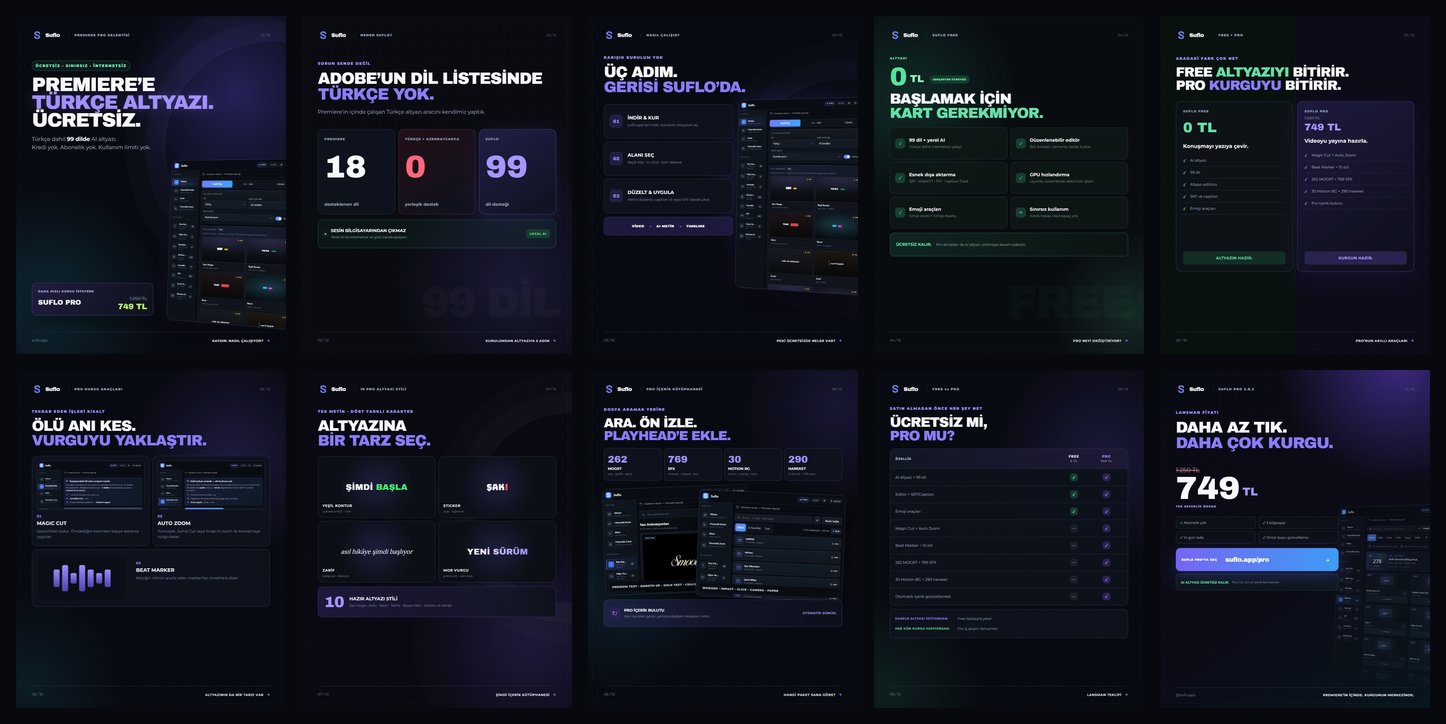
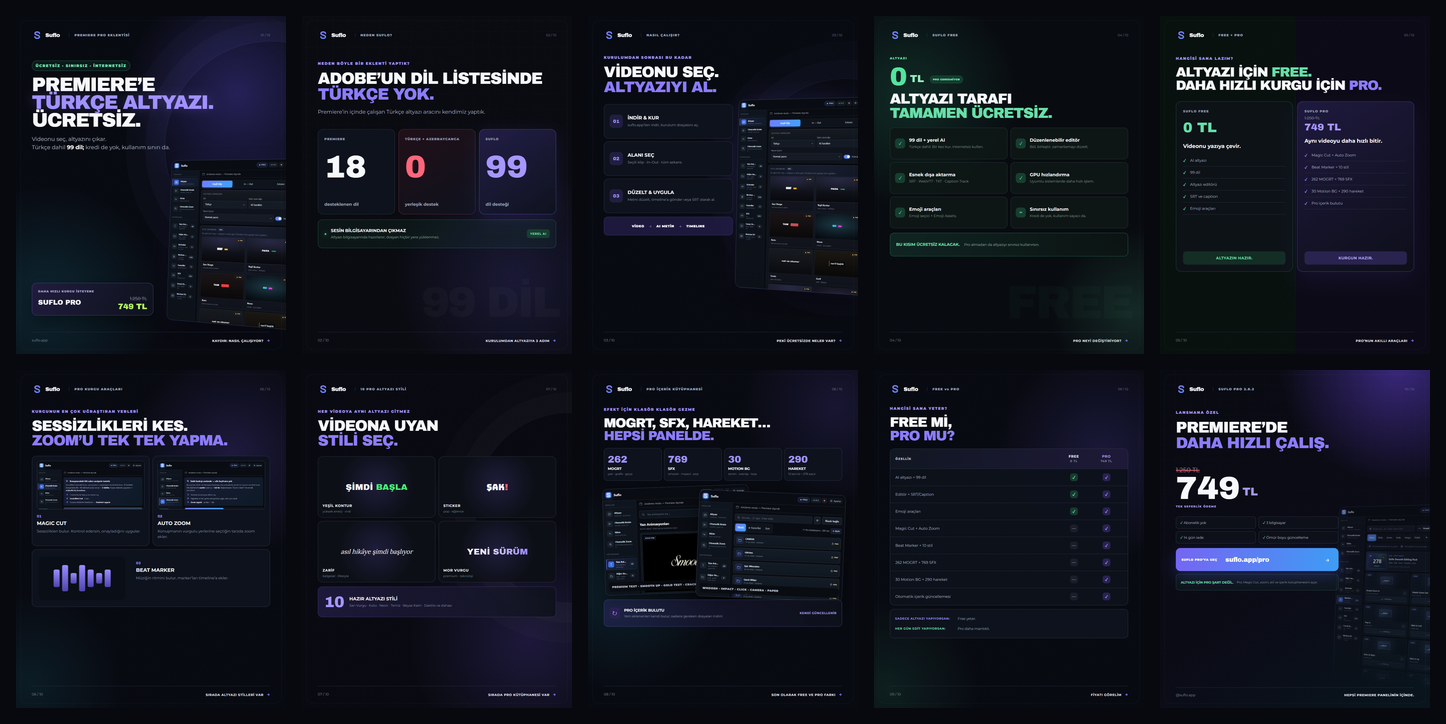
Make Suflo carousel copy sound natural

diff --git a/brand/campaign-2.8.2-FINAL/carousel.html b/brand/campaign-2.8.2-FINAL/carousel.html
@@ -14,7 +14,7 @@
       <div class="hero-copy">
         <span class="eyebrow free-label">ÜCRETSİZ · SINIRSIZ · İNTERNETSİZ</span>
         <h1>PREMIERE’E<br><em>TÜRKÇE ALTYAZI.</em><br>ÜCRETSİZ.</h1>
-        <p>Türkçe dahil <b>99 dilde</b> AI altyazı.<br>Kredi yok. Abonelik yok. Kullanım limiti yok.</p>
+        <p>Videonu seç, altyazını çıkar.<br>Türkçe dahil <b>99 dil;</b> kredi de yok, kullanım sınırı da.</p>
       </div>
       <div class="hero-panel device"><img src="panel-captures/01-captions.png" alt="Suflo AI Altyazı paneli"></div>
       <div class="launch-ribbon"><span>DAHA HIZLI KURGU İSTEYENE</span><b>SUFLO PRO</b><del>1.250 TL</del><strong>749 TL</strong></div>
@@ -25,7 +25,7 @@
       <div class="noise"></div><div class="grid-bg"></div>
       <header class="nav"><div class="logo"><img src="../logo-seffaf.svg" alt="Suflo"><b>Suflo</b></div><span>NEDEN SUFLO?</span><i>02 / 10</i></header>
       <div class="section-head">
-        <span class="eyebrow">SORUN SENDE DEĞİL</span>
+        <span class="eyebrow">NEDEN BÖYLE BİR EKLENTİ YAPTIK?</span>
         <h2>ADOBE’UN DİL LİSTESİNDE<br><em>TÜRKÇE YOK.</em></h2>
         <p>Premiere’in içinde çalışan Türkçe altyazı aracını kendimiz yaptık.</p>
       </div>
@@ -34,7 +34,7 @@
         <article class="zero-score"><span>TÜRKÇE + AZERBAYCANCA</span><strong>0</strong><b>yerleşik destek</b></article>
         <article class="suflo-score"><span>SUFLO</span><strong>99</strong><b>dil desteği</b></article>
       </div>
-      <div class="local-proof"><i>●</i><div><b>SESİN BİLGİSAYARINDAN ÇIKMAZ</b><span>Yerel AI ile internetsiz ve gizli transkripsiyon.</span></div><strong>LOCAL AI</strong></div>
+      <div class="local-proof"><i>●</i><div><b>SESİN BİLGİSAYARINDAN ÇIKMAZ</b><span>Altyazı bilgisayarında hazırlanır; dosyan hiçbir yere yüklenmez.</span></div><strong>YEREL AI</strong></div>
       <footer class="foot"><span>02 / 10</span><b>KURULUMDAN ALTYAZIYA 3 ADIM <i>→</i></b></footer>
     </section>
 
@@ -42,13 +42,13 @@
       <div class="noise"></div><div class="steps-orb"></div>
       <header class="nav"><div class="logo"><img src="../logo-seffaf.svg" alt="Suflo"><b>Suflo</b></div><span>NASIL ÇALIŞIR?</span><i>03 / 10</i></header>
       <div class="section-head compact">
-        <span class="eyebrow">KARIŞIK KURULUM YOK</span>
-        <h2>ÜÇ ADIM.<br><em>GERİSİ SUFLO’DA.</em></h2>
+        <span class="eyebrow">KURULUMDAN SONRASI BU KADAR</span>
+        <h2>VİDEONU SEÇ.<br><em>ALTYAZIYI AL.</em></h2>
       </div>
       <div class="steps-list">
         <article><i>01</i><div><b>İNDİR & KUR</b><span>suflo.app’ten indir, kurulum dosyasını aç.</span></div></article>
         <article><i>02</i><div><b>ALANI SEÇ</b><span>Seçili klip · In–Out · tüm sekans</span></div></article>
-        <article><i>03</i><div><b>DÜZELT & UYGULA</b><span>Metni düzenle; caption izi veya SRT olarak çıkar.</span></div></article>
+        <article><i>03</i><div><b>DÜZELT & UYGULA</b><span>Metni düzelt, timeline’a gönder veya SRT olarak al.</span></div></article>
       </div>
       <div class="steps-panel device"><img src="panel-captures/01-captions.png" alt="Suflo Altyazı paneli"></div>
       <div class="micro-flow"><span>VİDEO</span><i>→</i><span>AI METİN</span><i>→</i><span>TIMELINE</span></div>
@@ -58,17 +58,17 @@
     <section class="slide free" data-slide="4">
       <div class="noise"></div><div class="free-glow"></div>
       <header class="nav"><div class="logo"><img src="../logo-seffaf.svg" alt="Suflo"><b>Suflo</b></div><span>SUFLO FREE</span><i>04 / 10</i></header>
-      <div class="free-price"><span>ALTYAZI</span><strong>0</strong><b>TL</b><i>GERÇEKTEN ÜCRETSİZ</i></div>
-      <h2 class="free-title">BAŞLAMAK İÇİN<br><em>KART GEREKMİYOR.</em></h2>
+      <div class="free-price"><span>ALTYAZI</span><strong>0</strong><b>TL</b><i>PRO GEREKMİYOR</i></div>
+      <h2 class="free-title">ALTYAZI TARAFI<br><em>TAMAMEN ÜCRETSİZ.</em></h2>
       <div class="free-grid">
-        <article><i>✓</i><div><b>99 dil + yerel AI</b><span>Türkçe dahil, internetsiz çalışır.</span></div></article>
-        <article><i>✓</i><div><b>Düzenlenebilir editör</b><span>Böl, birleştir, zamanla, taslak kurtar.</span></div></article>
+        <article><i>✓</i><div><b>99 dil + yerel AI</b><span>Türkçe dahil. Bir kez kur, internetsiz kullan.</span></div></article>
+        <article><i>✓</i><div><b>Düzenlenebilir editör</b><span>Böl, birleştir, zamanlamayı düzelt.</span></div></article>
         <article><i>✓</i><div><b>Esnek dışa aktarma</b><span>SRT · WebVTT · TXT · Caption Track</span></div></article>
         <article><i>✓</i><div><b>GPU hızlandırma</b><span>Uyumlu sistemlerde daha hızlı işlem.</span></div></article>
         <article><i>✓</i><div><b>Emoji araçları</b><span>Emoji seçici + Emoji Assets.</span></div></article>
-        <article><i>∞</i><div><b>Sınırsız kullanım</b><span>Kredi, hesap veya sayaç yok.</span></div></article>
+        <article><i>∞</i><div><b>Sınırsız kullanım</b><span>Kredi de yok, kullanım sayacı da.</span></div></article>
       </div>
-      <div class="free-note"><b>ÜCRETSİZ KALIR.</b><span>Pro almadan da AI altyazı üretmeye devam edersin.</span></div>
+      <div class="free-note"><b>BU KISIM ÜCRETSİZ KALACAK.</b><span>Pro almadan da altyazıyı sınırsız kullanırsın.</span></div>
       <footer class="foot"><span>04 / 10</span><b>PRO NEYİ DEĞİŞTİRİYOR? <i>→</i></b></footer>
     </section>
 
@@ -76,19 +76,19 @@
       <div class="noise"></div><div class="split-line"></div>
       <header class="nav"><div class="logo"><img src="../logo-seffaf.svg" alt="Suflo"><b>Suflo</b></div><span>FREE + PRO</span><i>05 / 10</i></header>
       <div class="bridge-head">
-        <span class="eyebrow">ARADAKİ FARK ÇOK NET</span>
-        <h2>FREE <em>ALTYAZIYI</em> BİTİRİR.<br>PRO <em>KURGUYU</em> BİTİRİR.</h2>
+        <span class="eyebrow">HANGİSİ SANA LAZIM?</span>
+        <h2>ALTYAZI İÇİN <em>FREE.</em><br>DAHA HIZLI KURGU İÇİN <em>PRO.</em></h2>
       </div>
       <div class="bridge-columns">
         <article class="free-column">
           <span class="plan-label">SUFLO FREE</span><strong>0 TL</strong>
-          <h3>Konuşmayı yazıya çevir.</h3>
+          <h3>Videonu yazıya çevir.</h3>
           <ul><li>AI altyazı</li><li>99 dil</li><li>Altyazı editörü</li><li>SRT ve caption</li><li>Emoji araçları</li></ul>
           <b class="plan-result">ALTYAZIN HAZIR.</b>
         </article>
         <article class="pro-column">
           <span class="plan-label">SUFLO PRO</span><div class="mini-price"><del>1.250 TL</del><strong>749 TL</strong></div>
-          <h3>Videoyu yayına hazırla.</h3>
+          <h3>Aynı videoyu daha hızlı bitir.</h3>
           <ul><li>Magic Cut + Auto Zoom</li><li>Beat Marker + 10 stil</li><li>262 MOGRT + 769 SFX</li><li>30 Motion BG + 290 hareket</li><li>Pro içerik bulutu</li></ul>
           <b class="plan-result">KURGUN HAZIR.</b>
         </article>
@@ -100,23 +100,23 @@
       <div class="noise"></div><div class="tool-glow"></div>
       <header class="nav"><div class="logo"><img src="../logo-seffaf.svg" alt="Suflo"><b>Suflo</b></div><span>PRO KURGU ARAÇLARI</span><i>06 / 10</i></header>
       <div class="section-head compact">
-        <span class="eyebrow">TEKRAR EDEN İŞLERİ KISALT</span>
-        <h2>ÖLÜ ANI KES.<br><em>VURGUYU YAKLAŞTIR.</em></h2>
+        <span class="eyebrow">KURGUNUN EN ÇOK UĞRAŞTIRAN YERLERİ</span>
+        <h2>SESSİZLİKLERİ KES.<br><em>ZOOM’U TEK TEK YAPMA.</em></h2>
       </div>
       <div class="tool-cards">
-        <article><div class="tool-shot"><img src="panel-captures/05-magic-cut.png" alt="Magic Cut"></div><span>01</span><b>MAGIC CUT</b><p>Sessizlikleri bulur. Önizlediğin kesimleri kopya sekansa uygular.</p></article>
-        <article><div class="tool-shot"><img src="panel-captures/06-auto-zoom.png" alt="Auto Zoom"></div><span>02</span><b>AUTO ZOOM</b><p>Yumuşak, Jump Cut veya Snap‑In zoom ile konuşmaya vurgu katar.</p></article>
-        <article class="beat-card"><div class="beat-wave"><i></i><i></i><i></i><i></i><i></i><i></i><i></i></div><span>03</span><b>BEAT MARKER</b><p>Müziğin ritmini analiz eder, marker’ları timeline’a dizer.</p></article>
+        <article><div class="tool-shot"><img src="panel-captures/05-magic-cut.png" alt="Magic Cut"></div><span>01</span><b>MAGIC CUT</b><p>Sessizlikleri bulur. Kontrol edersin, onayladığını uygular.</p></article>
+        <article><div class="tool-shot"><img src="panel-captures/06-auto-zoom.png" alt="Auto Zoom"></div><span>02</span><b>AUTO ZOOM</b><p>Konuşmanın vurgulu yerlerine seçtiğin tarzda zoom ekler.</p></article>
+        <article class="beat-card"><div class="beat-wave"><i></i><i></i><i></i><i></i><i></i><i></i><i></i></div><span>03</span><b>BEAT MARKER</b><p>Müziğin ritmini bulur, marker’ları timeline’a ekler.</p></article>
       </div>
-      <footer class="foot"><span>06 / 10</span><b>ALTYAZININ DA BİR TARZI VAR <i>→</i></b></footer>
+      <footer class="foot"><span>06 / 10</span><b>SIRADA ALTYAZI STİLLERİ VAR <i>→</i></b></footer>
     </section>
 
     <section class="slide styles" data-slide="7">
       <div class="noise"></div><div class="style-orb"></div>
       <header class="nav"><div class="logo"><img src="../logo-seffaf.svg" alt="Suflo"><b>Suflo</b></div><span>10 PRO ALTYAZI STİLİ</span><i>07 / 10</i></header>
       <div class="section-head compact">
-        <span class="eyebrow">TEK METİN · DÖRT FARKLI KARAKTER</span>
-        <h2>ALTYAZINA<br><em>BİR TARZ SEÇ.</em></h2>
+        <span class="eyebrow">HER VİDEOYA AYNI ALTYAZI GİTMEZ</span>
+        <h2>VİDEONA UYAN<br><em>STİLİ SEÇ.</em></h2>
       </div>
       <div class="style-grid">
         <article class="energy"><div>ŞİMDİ <i>BAŞLA</i></div><b>YEŞİL KONTUR</b><span>yüksek enerji · viral</span></article>
@@ -125,15 +125,15 @@
         <article class="premium"><div>YENİ <i>SÜRÜM</i></div><b>MOR VURGU</b><span>premium · teknoloji</span></article>
       </div>
       <div class="ten-styles"><strong>10</strong><div><b>HAZIR ALTYAZI STİLİ</b><span>Sarı Vurgu · Kutu · Neon · Temiz · Beyaz Kalın · Daktilo ve dahası</span></div></div>
-      <footer class="foot"><span>07 / 10</span><b>ŞİMDİ İÇERİK KÜTÜPHANESİ <i>→</i></b></footer>
+      <footer class="foot"><span>07 / 10</span><b>SIRADA PRO KÜTÜPHANESİ VAR <i>→</i></b></footer>
     </section>
 
     <section class="slide library" data-slide="8">
       <div class="noise"></div><div class="library-orb"></div>
       <header class="nav"><div class="logo"><img src="../logo-seffaf.svg" alt="Suflo"><b>Suflo</b></div><span>PRO İÇERİK KÜTÜPHANESİ</span><i>08 / 10</i></header>
       <div class="section-head library-head">
-        <span class="eyebrow">DOSYA ARAMAK YERİNE</span>
-        <h2>ARA. ÖN İZLE.<br><em>PLAYHEAD’E EKLE.</em></h2>
+        <span class="eyebrow">EFEKT İÇİN KLASÖR KLASÖR GEZME</span>
+        <h2>MOGRT, SFX, HAREKET…<br><em>HEPSİ PANELDE.</em></h2>
       </div>
       <div class="number-row">
         <article><strong>262</strong><b>MOGRT</b><span>yazı · grafik · geçiş</span></article>
@@ -145,16 +145,16 @@
         <div class="lib-window left"><img src="panel-captures/02-text-effects.png" alt="Suflo yazı efektleri"><span>PREMIUM TEXT · SMOOTH UP · GOLD TEXT · CRACKED</span></div>
         <div class="lib-window right"><img src="panel-captures/04-sfx.png" alt="Suflo ses efektleri"><span>WHOOSH · IMPACT · CLICK · CAMERA · PAPER</span></div>
       </div>
-      <div class="cloud-strip"><i>↻</i><div><b>PRO İÇERİK BULUTU</b><span>Yeni içerikleri görür, yalnızca değişen dosyaları indirir.</span></div><strong>OTOMATİK GÜNCEL</strong></div>
-      <footer class="foot"><span>08 / 10</span><b>HANGİ PAKET SANA GÖRE? <i>→</i></b></footer>
+      <div class="cloud-strip"><i>↻</i><div><b>PRO İÇERİK BULUTU</b><span>Yeni eklenenleri kendi bulur; sadece gereken dosyaları indirir.</span></div><strong>KENDİ GÜNCELLENİR</strong></div>
+      <footer class="foot"><span>08 / 10</span><b>SON OLARAK FREE VE PRO FARKI <i>→</i></b></footer>
     </section>
 
     <section class="slide compare" data-slide="9">
       <div class="noise"></div><div class="compare-glow"></div>
       <header class="nav"><div class="logo"><img src="../logo-seffaf.svg" alt="Suflo"><b>Suflo</b></div><span>FREE vs PRO</span><i>09 / 10</i></header>
       <div class="section-head compare-head">
-        <span class="eyebrow">SATIN ALMADAN ÖNCE HER ŞEY NET</span>
-        <h2>ÜCRETSİZ Mİ,<br><em>PRO MU?</em></h2>
+        <span class="eyebrow">HANGİSİ SANA YETER?</span>
+        <h2>FREE Mİ,<br><em>PRO MU?</em></h2>
       </div>
       <div class="compare-table">
         <div class="table-head"><span>ÖZELLİK</span><b>FREE<br><small>0 TL</small></b><b>PRO<br><small>749 TL</small></b></div>
@@ -167,23 +167,23 @@
         <div><span>30 Motion BG + 290 hareket</span><i class="off">—</i><i>✓</i></div>
         <div><span>Otomatik içerik güncellemesi</span><i class="off">—</i><i>✓</i></div>
       </div>
-      <div class="compare-note"><b>SADECE ALTYAZI İSTİYORSAN:</b><span>Free fazlasıyla yeter.</span><b>HER GÜN KURGU YAPIYORSAN:</b><span>Pro iş akışını tamamlar.</span></div>
-      <footer class="foot"><span>09 / 10</span><b>LANSMAN TEKLİFİ <i>→</i></b></footer>
+      <div class="compare-note"><b>SADECE ALTYAZI YAPIYORSAN:</b><span>Free yeter.</span><b>HER GÜN EDİT YAPIYORSAN:</b><span>Pro daha mantıklı.</span></div>
+      <footer class="foot"><span>09 / 10</span><b>FİYATI GÖRELİM <i>→</i></b></footer>
     </section>
 
     <section class="slide offer" data-slide="10">
       <div class="noise"></div><div class="offer-orb"></div><div class="offer-lines"></div>
       <header class="nav"><div class="logo"><img src="../logo-seffaf.svg" alt="Suflo"><b>Suflo</b></div><span>SUFLO PRO 2.8.2</span><i>10 / 10</i></header>
       <div class="offer-copy">
-        <span class="eyebrow">LANSMAN FİYATI</span>
-        <h2>DAHA AZ TIK.<br><em>DAHA ÇOK KURGU.</em></h2>
+        <span class="eyebrow">LANSMANA ÖZEL</span>
+        <h2>PREMIERE’DE<br><em>DAHA HIZLI ÇALIŞ.</em></h2>
       </div>
       <div class="offer-price"><del>1.250 TL</del><div><strong>749</strong><b>TL</b></div><span>TEK SEFERLİK ÖDEME</span></div>
       <div class="offer-benefits"><span>✓ Abonelik yok</span><span>✓ 3 bilgisayar</span><span>✓ 14 gün iade</span><span>✓ Ömür boyu güncelleme</span></div>
       <a class="cta" href="https://suflo.app/pro"><span>SUFLO PRO’YA GEÇ</span><b>suflo.app/pro</b><i>→</i></a>
-      <div class="offer-free"><b>AI ALTYAZI ÜCRETSİZ KALIR.</b><span>Pro; hız, stil ve içerik katmanıdır.</span></div>
+      <div class="offer-free"><b>ALTYAZI İÇİN PRO ŞART DEĞİL.</b><span>Pro; Magic Cut, zoom, stil ve içerik kütüphanesini açar.</span></div>
       <div class="offer-panel device"><img src="panel-captures/03-motion-presets.png" alt="Suflo Pro"></div>
-      <footer class="foot"><span>@suflo.app</span><b>PREMIERE’İN İÇİNDE. KURGUNUN MERKEZİNDE.</b></footer>
+      <footer class="foot"><span>@suflo.app</span><b>HEPSİ PREMIERE PANELİNİN İÇİNDE.</b></footer>
     </section>
   </main>
   <script src="carousel.js"></script>

diff --git a/brand/SUFLO-CAROUSEL-FINAL-2.8.2/SPONSORLU-REKLAM-METNI.md b/brand/SUFLO-CAROUSEL-FINAL-2.8.2/SPONSORLU-REKLAM-METNI.md
@@ -2,29 +2,29 @@
 
 ## Ana reklam metni
 
-Premiere’e Türkçe altyazı geldi. Üstelik ücretsiz.
+Premiere’de Türkçe altyazı için hâlâ farklı programlara gidip geliyorsan Suflo’ya bak.
 
-Suflo Free ile Türkçe dahil 99 dilde AI altyazı üret. Metni düzenle; SRT, WebVTT, TXT veya caption izi olarak timeline’a taşı. Yerel AI sayesinde sesin bilgisayarından çıkmaz. Kredi, abonelik ve kullanım limiti yok.
+Videonu seçiyorsun, altyazıyı hazırlıyor ve timeline’a gönderiyorsun. Türkçe dahil 99 dili destekliyor. Üstelik altyazı tarafı tamamen ücretsiz; kredi veya kullanım sınırı yok.
 
-Kurguyu daha hızlı bitirmek isteyenler için Suflo Pro:
+Her gün edit yapıyorsan Pro tarafında da şunlar var:
 
-• Magic Cut ile sessizlikleri temizle
-• Auto Zoom ile konuşmaya vurgu kat
-• Beat Marker ile ritmi timeline’a taşı
-• 10 hazır altyazı stilinden birini seç
-• 262 MOGRT, 769 SFX ve 30 Motion BG’ye panelden ulaş
-• 12 tek-tık Motion ve 278 efektlik Suflo Smooth Pack ile toplam 290 hareket kullan
-• Pro içerik bulutuyla yeni içerikleri otomatik al
+• Magic Cut ile sessizlikleri bulup kesme
+• Auto Zoom ile konuşmaya otomatik zoom ekleme
+• Beat Marker ile ritimleri timeline’a işaretleme
+• 10 farklı altyazı stili
+• 262 MOGRT, 769 SFX ve 30 Motion BG
+• 12 tek-tık Motion ve 278 efektlik Suflo Smooth Pack
+• Yeni içerikleri kendi kontrol eden Pro içerik bulutu
 
-AI altyazı ücretsiz kalır. Pro; hız, stil ve içerik katmanıdır.
+Sadece altyazı yapacaksan Free yeter. Kurguda aynı işleri tekrar tekrar yapıyorsan Pro daha mantıklı.
 
-Suflo Pro lansman fiyatı: 1.250 TL yerine 749 TL. Tek seferlik ödeme, abonelik yok. 3 bilgisayarda kullanım ve 14 gün iade güvencesi.
+Suflo Pro lansmana özel 1.250 TL yerine 749 TL. Tek sefer ödüyorsun; abonelik yok. Lisans 3 bilgisayarda kullanılabiliyor ve 14 gün iade hakkı var.
 
 https://suflo.app/pro
 
 ## Kısa reklam metni
 
-Premiere’de Türkçe AI altyazı ücretsiz. Daha hızlı kurgu isteyenlere Suflo Pro: Magic Cut, Auto Zoom, Beat Marker, 10 altyazı stili, 262 MOGRT, 769 SFX ve 290 hareket. Lansmana özel 1.250 TL yerine 749 TL; tek ödeme, abonelik yok.
+Premiere’de Türkçe AI altyazı ücretsiz. Her gün edit yapıyorsan Magic Cut, Auto Zoom, Beat Marker, 10 altyazı stili, 262 MOGRT, 769 SFX ve 290 hareket Pro’da. Lansmana özel 1.250 TL yerine 749 TL; tek ödeme, abonelik yok.
 
 ## Başlık
 
@@ -32,7 +32,7 @@ Premiere’e Türkçe altyazı. Ücretsiz.
 
 ## Açıklama
 
-Suflo Free ile altyazını, Suflo Pro ile kurgunu tamamla.
+Altyazı için Free. Daha hızlı kurgu için Pro.
 
 ## CTA
 
@@ -40,4 +40,4 @@ Hemen İncele
 
 ## Alt metin
 
-Suflo’nun ücretsiz Türkçe AI altyazı özelliğini, üç adımlı kullanımını, Free ve Pro paket farklarını, Magic Cut, Auto Zoom, Beat Marker, 10 altyazı stili, MOGRT, SFX, Motion kütüphanelerini ve 1.250 TL yerine 749 TL lansman teklifini anlatan on sayfalık Instagram karuseli.
+Suflo’nun ücretsiz Türkçe AI altyazı özelliğini; Free ve Pro paket farklarını; Magic Cut, Auto Zoom, Beat Marker, altyazı stilleri, MOGRT, SFX ve Motion kütüphanelerini anlatan on sayfalık Instagram karuseli. Son sayfada Suflo Pro’nun 1.250 TL yerine 749 TL olan lansman fiyatı yer alıyor.

diff --git a/brand/campaign-2.8.2-FINAL/copy.md b/brand/campaign-2.8.2-FINAL/copy.md
@@ -2,29 +2,29 @@
 
 ## Ana reklam metni
 
-Premiere’e Türkçe altyazı geldi. Üstelik ücretsiz.
+Premiere’de Türkçe altyazı için hâlâ farklı programlara gidip geliyorsan Suflo’ya bak.
 
-Suflo Free ile Türkçe dahil 99 dilde AI altyazı üret. Metni düzenle; SRT, WebVTT, TXT veya caption izi olarak timeline’a taşı. Yerel AI sayesinde sesin bilgisayarından çıkmaz. Kredi, abonelik ve kullanım limiti yok.
+Videonu seçiyorsun, altyazıyı hazırlıyor ve timeline’a gönderiyorsun. Türkçe dahil 99 dili destekliyor. Üstelik altyazı tarafı tamamen ücretsiz; kredi veya kullanım sınırı yok.
 
-Kurguyu daha hızlı bitirmek isteyenler için Suflo Pro:
+Her gün edit yapıyorsan Pro tarafında da şunlar var:
 
-• Magic Cut ile sessizlikleri temizle
-• Auto Zoom ile konuşmaya vurgu kat
-• Beat Marker ile ritmi timeline’a taşı
-• 10 hazır altyazı stilinden birini seç
-• 262 MOGRT, 769 SFX ve 30 Motion BG’ye panelden ulaş
-• 12 tek-tık Motion ve 278 efektlik Suflo Smooth Pack ile toplam 290 hareket kullan
-• Pro içerik bulutuyla yeni içerikleri otomatik al
+• Magic Cut ile sessizlikleri bulup kesme
+• Auto Zoom ile konuşmaya otomatik zoom ekleme
+• Beat Marker ile ritimleri timeline’a işaretleme
+• 10 farklı altyazı stili
+• 262 MOGRT, 769 SFX ve 30 Motion BG
+• 12 tek-tık Motion ve 278 efektlik Suflo Smooth Pack
+• Yeni içerikleri kendi kontrol eden Pro içerik bulutu
 
-AI altyazı ücretsiz kalır. Pro; hız, stil ve içerik katmanıdır.
+Sadece altyazı yapacaksan Free yeter. Kurguda aynı işleri tekrar tekrar yapıyorsan Pro daha mantıklı.
 
-Suflo Pro lansman fiyatı: 1.250 TL yerine 749 TL. Tek seferlik ödeme, abonelik yok. 3 bilgisayarda kullanım ve 14 gün iade güvencesi.
+Suflo Pro lansmana özel 1.250 TL yerine 749 TL. Tek sefer ödüyorsun; abonelik yok. Lisans 3 bilgisayarda kullanılabiliyor ve 14 gün iade hakkı var.
 
 https://suflo.app/pro
 
 ## Kısa reklam metni
 
-Premiere’de Türkçe AI altyazı ücretsiz. Daha hızlı kurgu isteyenlere Suflo Pro: Magic Cut, Auto Zoom, Beat Marker, 10 altyazı stili, 262 MOGRT, 769 SFX ve 290 hareket. Lansmana özel 1.250 TL yerine 749 TL; tek ödeme, abonelik yok.
+Premiere’de Türkçe AI altyazı ücretsiz. Her gün edit yapıyorsan Magic Cut, Auto Zoom, Beat Marker, 10 altyazı stili, 262 MOGRT, 769 SFX ve 290 hareket Pro’da. Lansmana özel 1.250 TL yerine 749 TL; tek ödeme, abonelik yok.
 
 ## Başlık
 
@@ -32,7 +32,7 @@ Premiere’e Türkçe altyazı. Ücretsiz.
 
 ## Açıklama
 
-Suflo Free ile altyazını, Suflo Pro ile kurgunu tamamla.
+Altyazı için Free. Daha hızlı kurgu için Pro.
 
 ## CTA
 
@@ -40,4 +40,4 @@ Hemen İncele
 
 ## Alt metin
 
-Suflo’nun ücretsiz Türkçe AI altyazı özelliğini, üç adımlı kullanımını, Free ve Pro paket farklarını, Magic Cut, Auto Zoom, Beat Marker, 10 altyazı stili, MOGRT, SFX, Motion kütüphanelerini ve 1.250 TL yerine 749 TL lansman teklifini anlatan on sayfalık Instagram karuseli.
+Suflo’nun ücretsiz Türkçe AI altyazı özelliğini; Free ve Pro paket farklarını; Magic Cut, Auto Zoom, Beat Marker, altyazı stilleri, MOGRT, SFX ve Motion kütüphanelerini anlatan on sayfalık Instagram karuseli. Son sayfada Suflo Pro’nun 1.250 TL yerine 749 TL olan lansman fiyatı yer alıyor.
